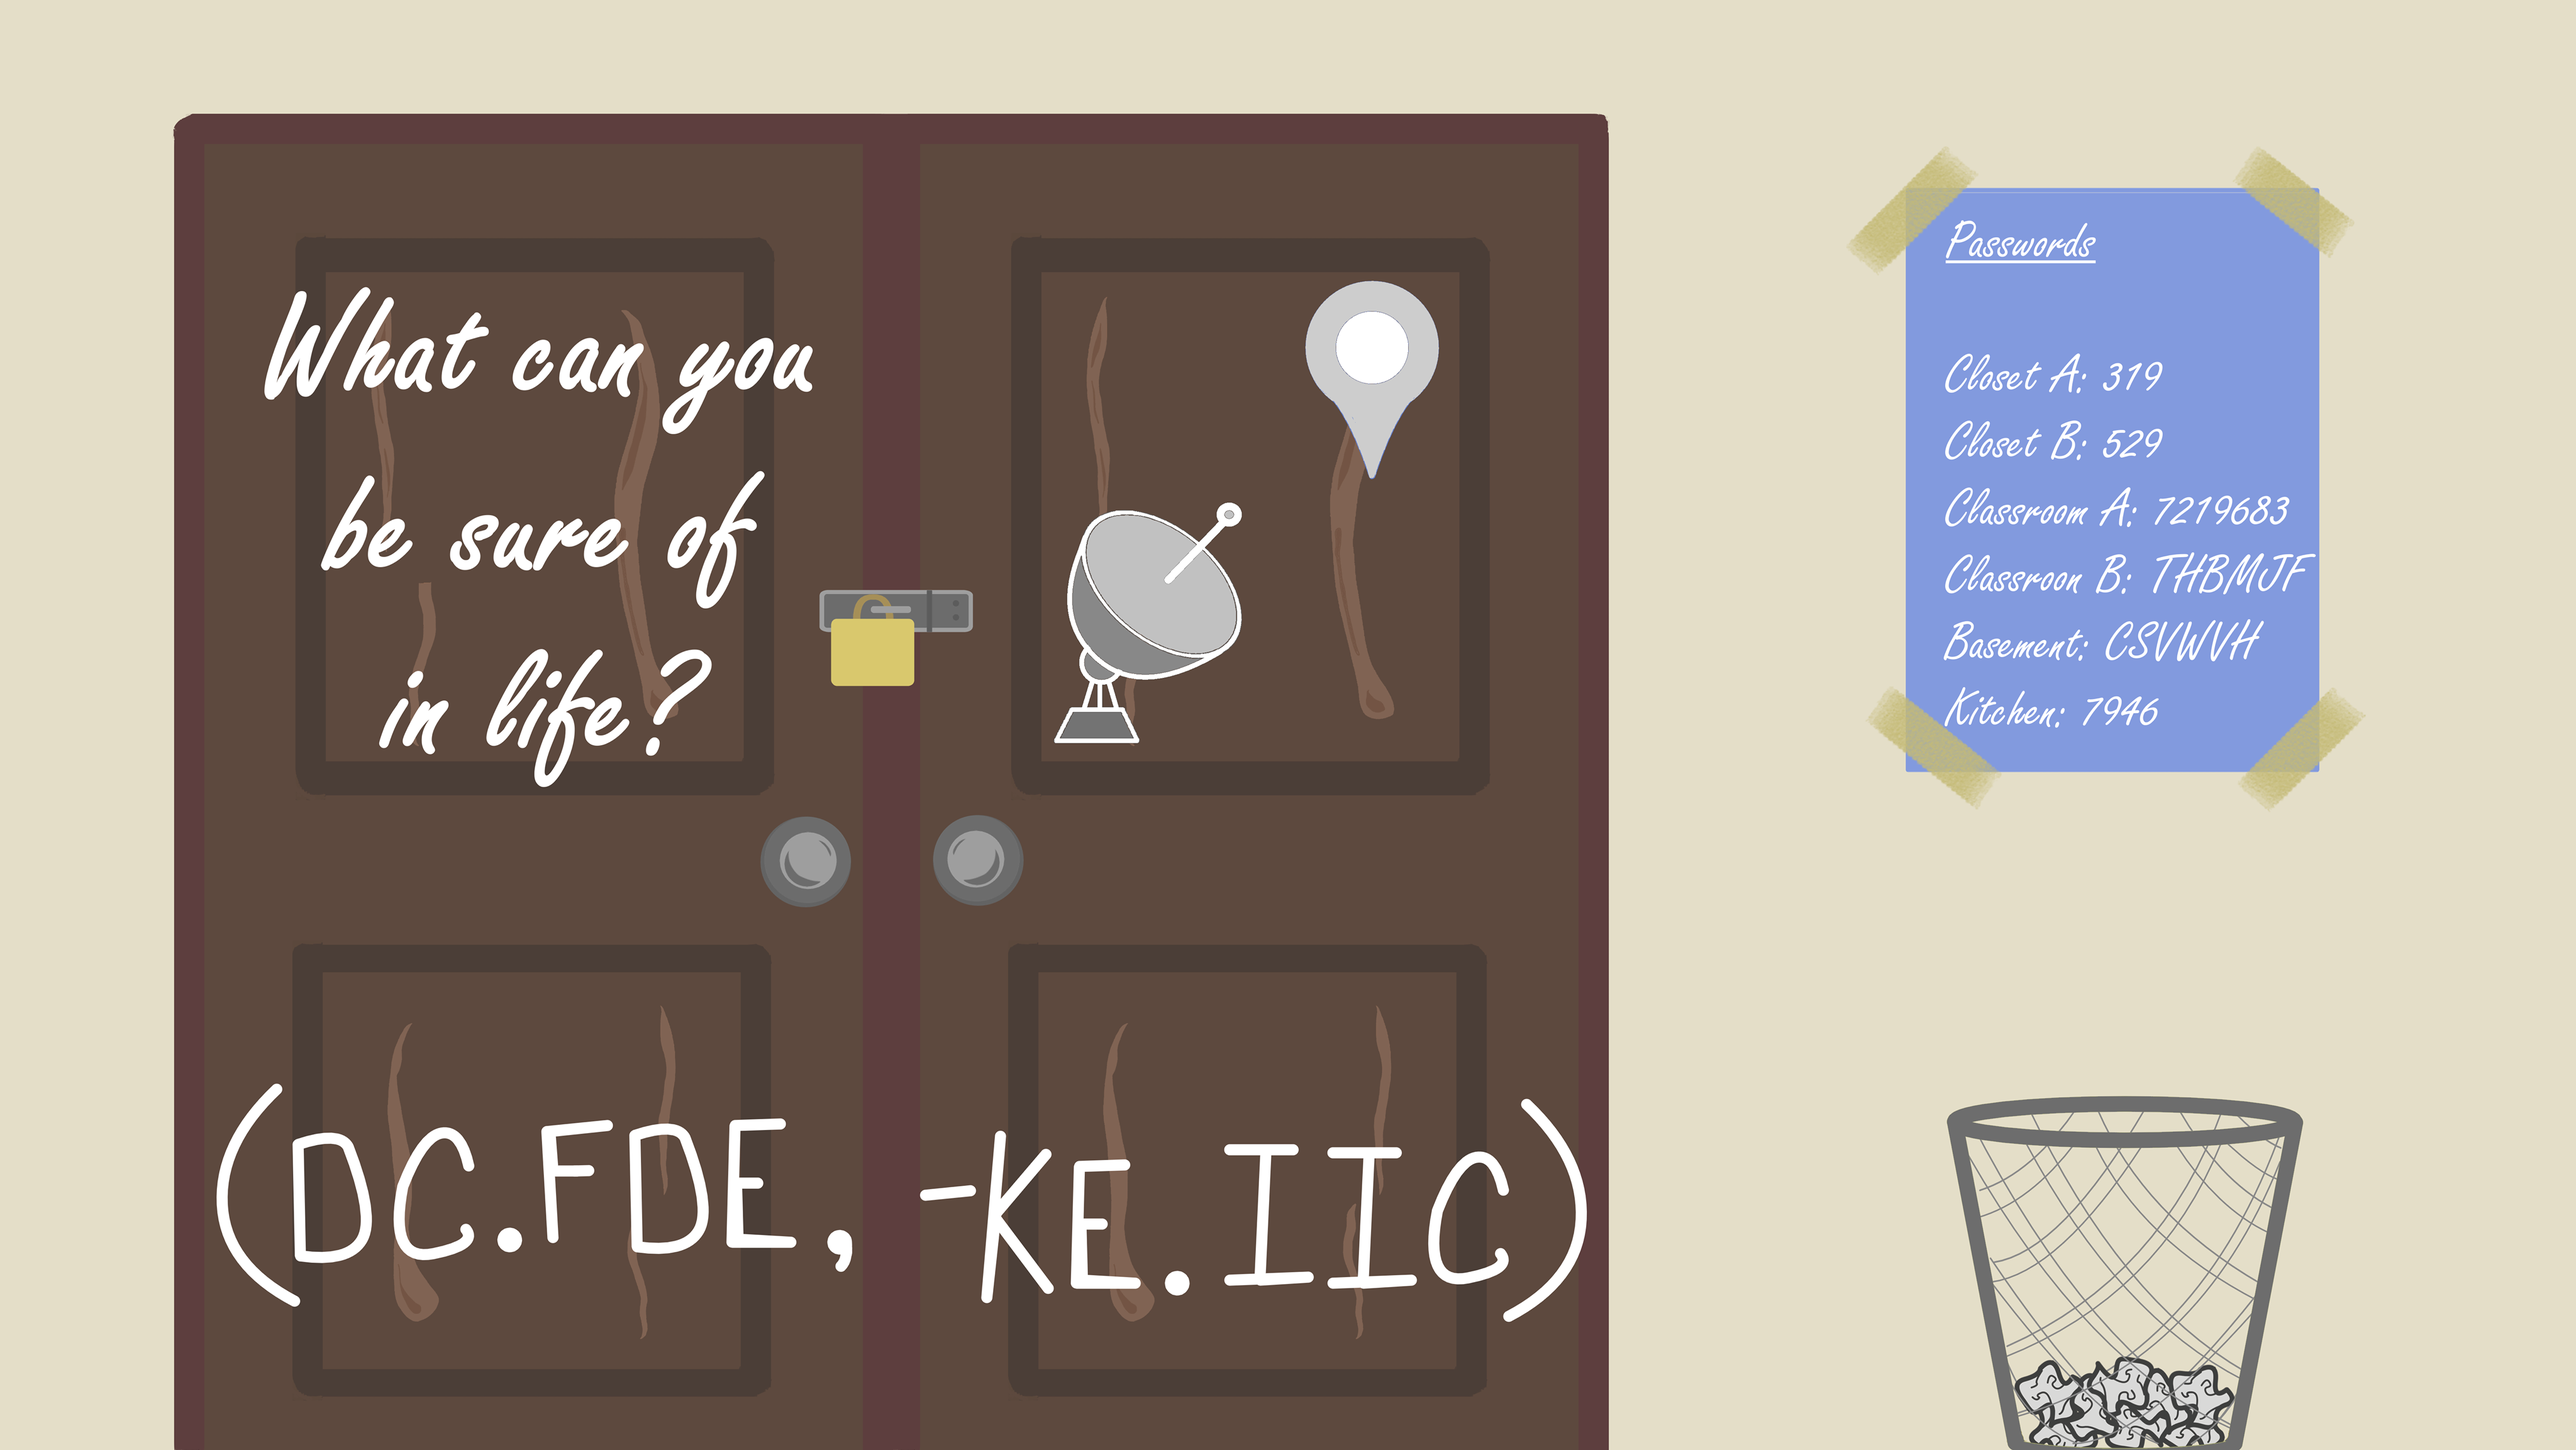
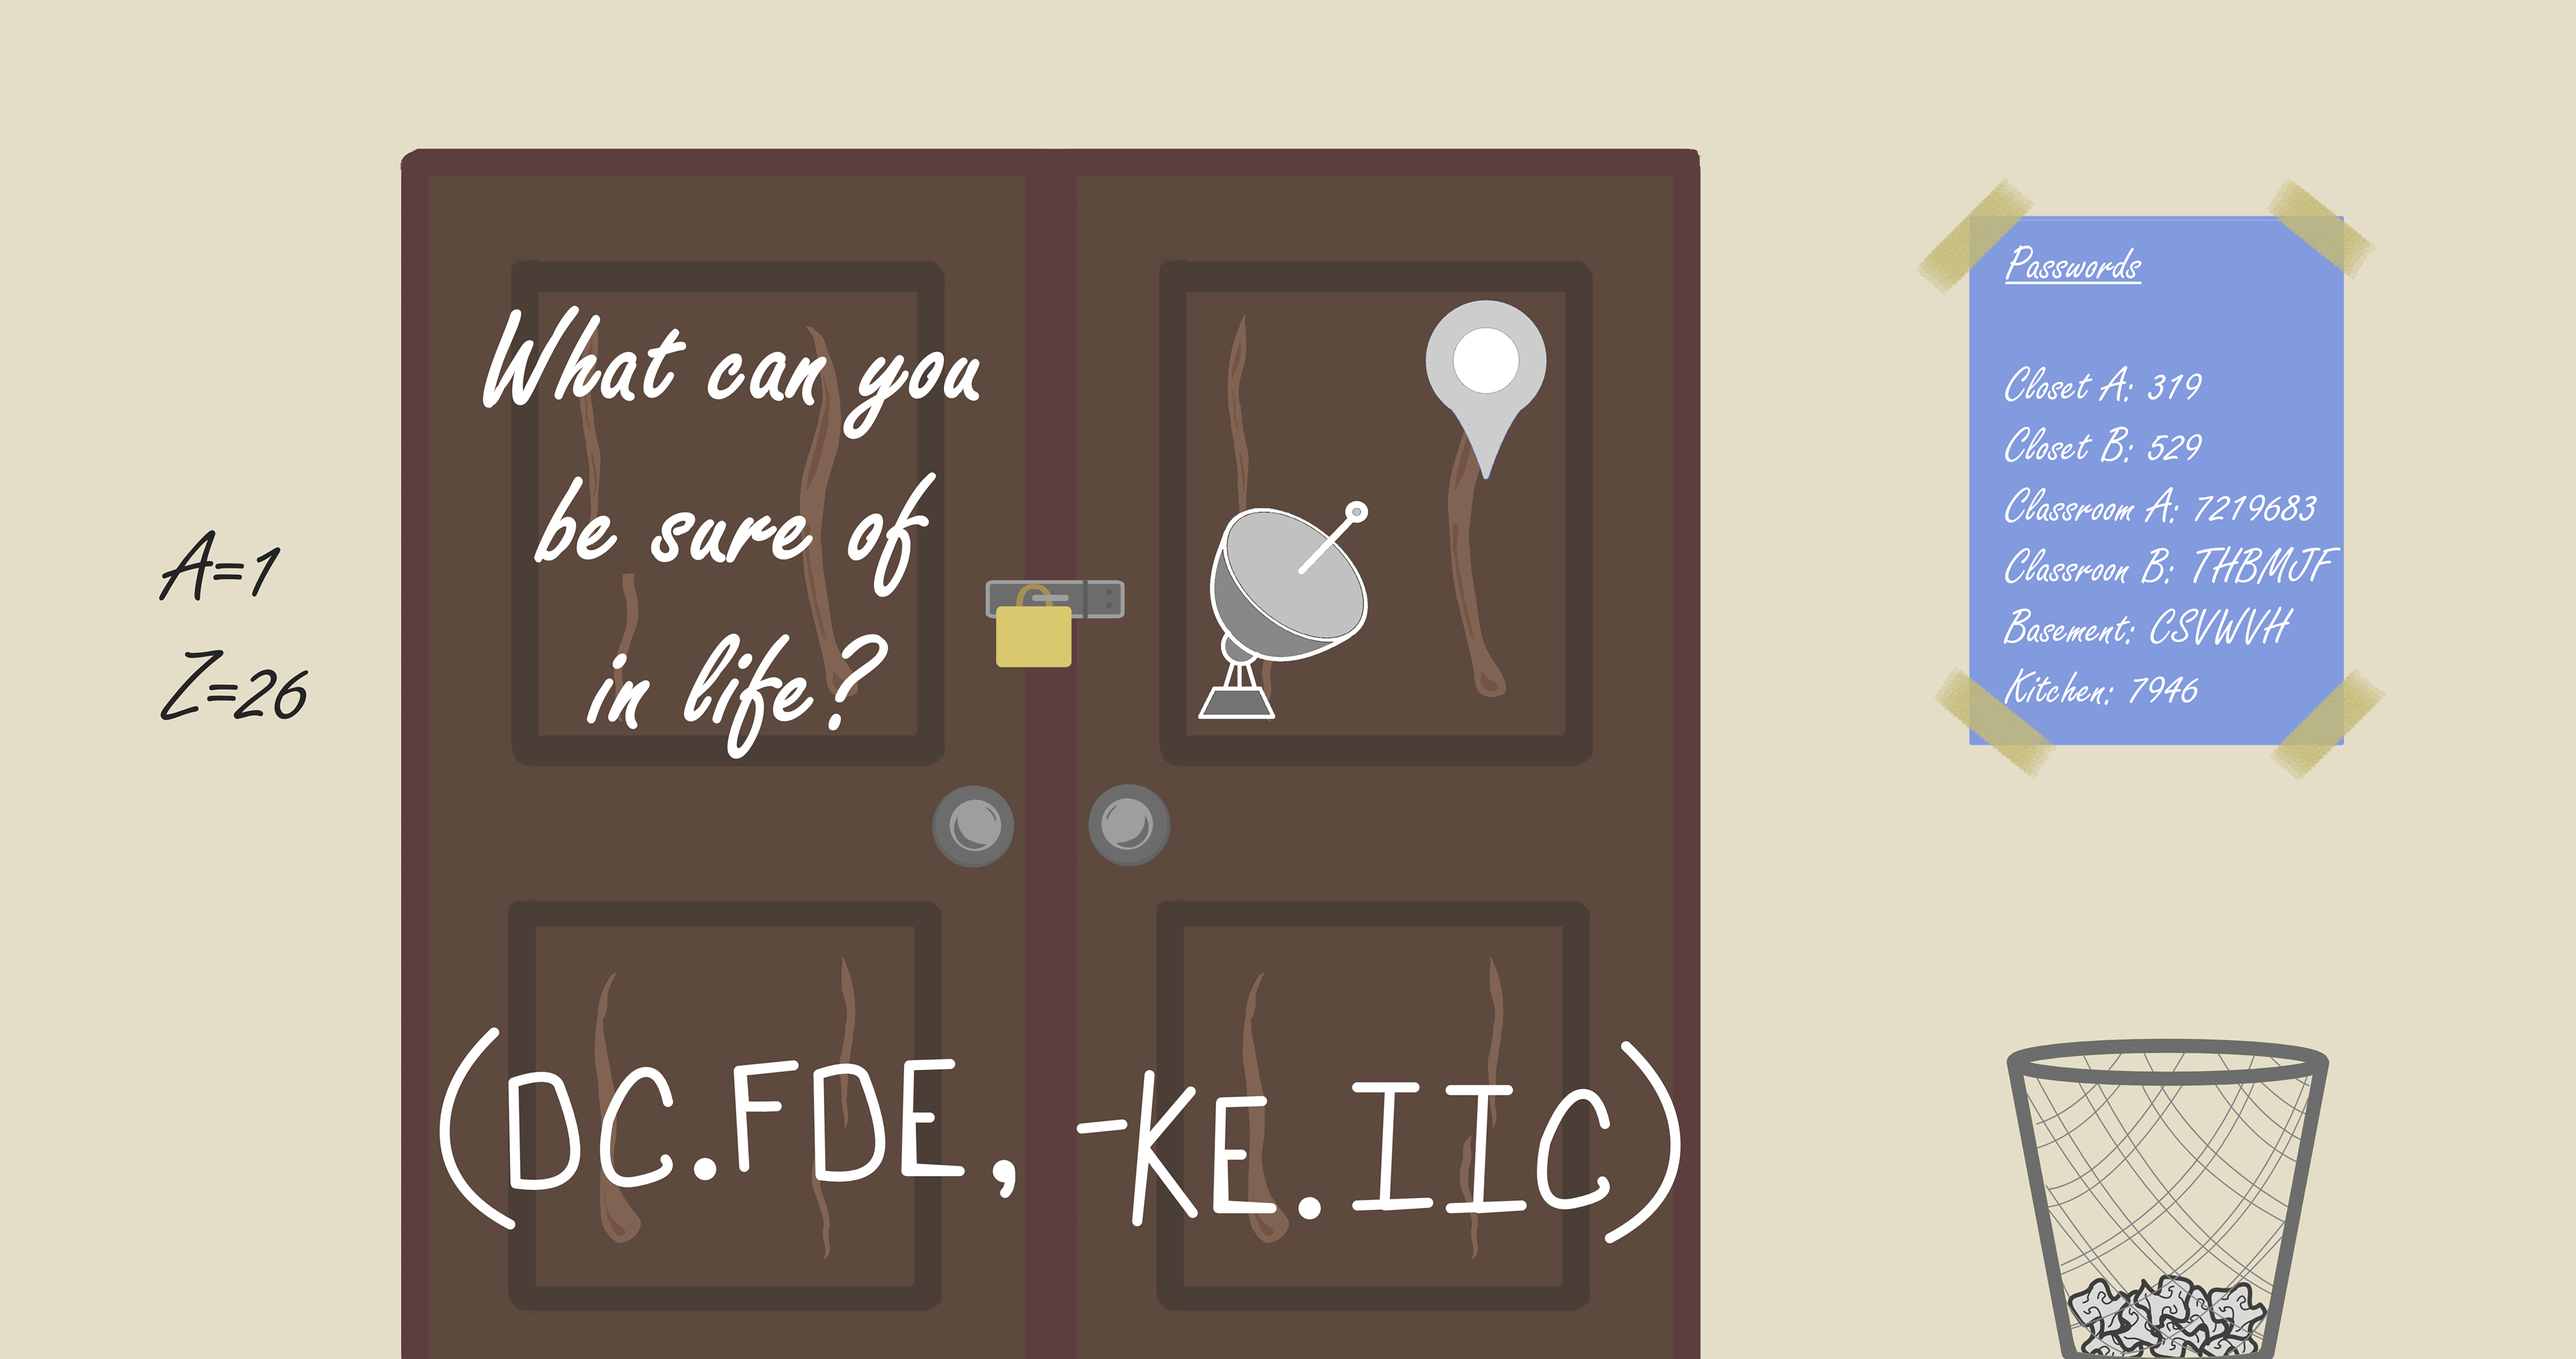
lock descriptions + final door cypher update

Changed region(s): [[0.0625, 0.062, 0.6875, 1.0], [0.7188, 0.093, 0.9375, 0.5891], [0.75, 0.7441, 0.9062, 1.0]]

diff --git a/b_pg2_door.html b/b_pg2_door.html
@@ -16,7 +16,7 @@
             <input type="text" maxlength="2" class="b_door_rectangles" id = "b_door_input6"> 
             <button onclick = "b_door_lock()" id="b_door_button">Unlock</button>
         </div>
-        <p class="dialogue">The door leading out of this room towards the kitchen.</p>
+        <p class="dialogue">The door leading out of this room towards the kitchen. On it says "Listening to the radio gives excellent information, and reading the bible gives good news."</p>
 
     </body>
     

diff --git a/THE_SEMI_FINALE.html b/THE_SEMI_FINALE.html
@@ -12,7 +12,7 @@
         <image class ="img" width="300" height="205" xlink:href="final_door.png">
         </image>
             <a xlink:href="final_door.html" onclick="window.open('final_door.html','popup', 'resizable=0,width=820,height=570'); return false;">
-                <rect x="95" y="85" fill="#fff" opacity="0" width="20" height="15" />
+                <rect x="115" y="90" fill="#fff" opacity="0" width="17" height="14" />
             </a>
         </svg>
 

diff --git a/a_lv3_door.html b/a_lv3_door.html
@@ -16,7 +16,7 @@
             <input type="text" maxlength="1" class="a_door_rectangles" id = "a_door_input6">
             <button onclick = "a_door_lock()" id="a_door_button">Unlock</button>
         </div>
-        <p class="dialogue">The door leading out of this room.</p>
+        <p class="dialogue">The door leading out of this room. On it says "A journey through life."</p>
 
     </body>
     
